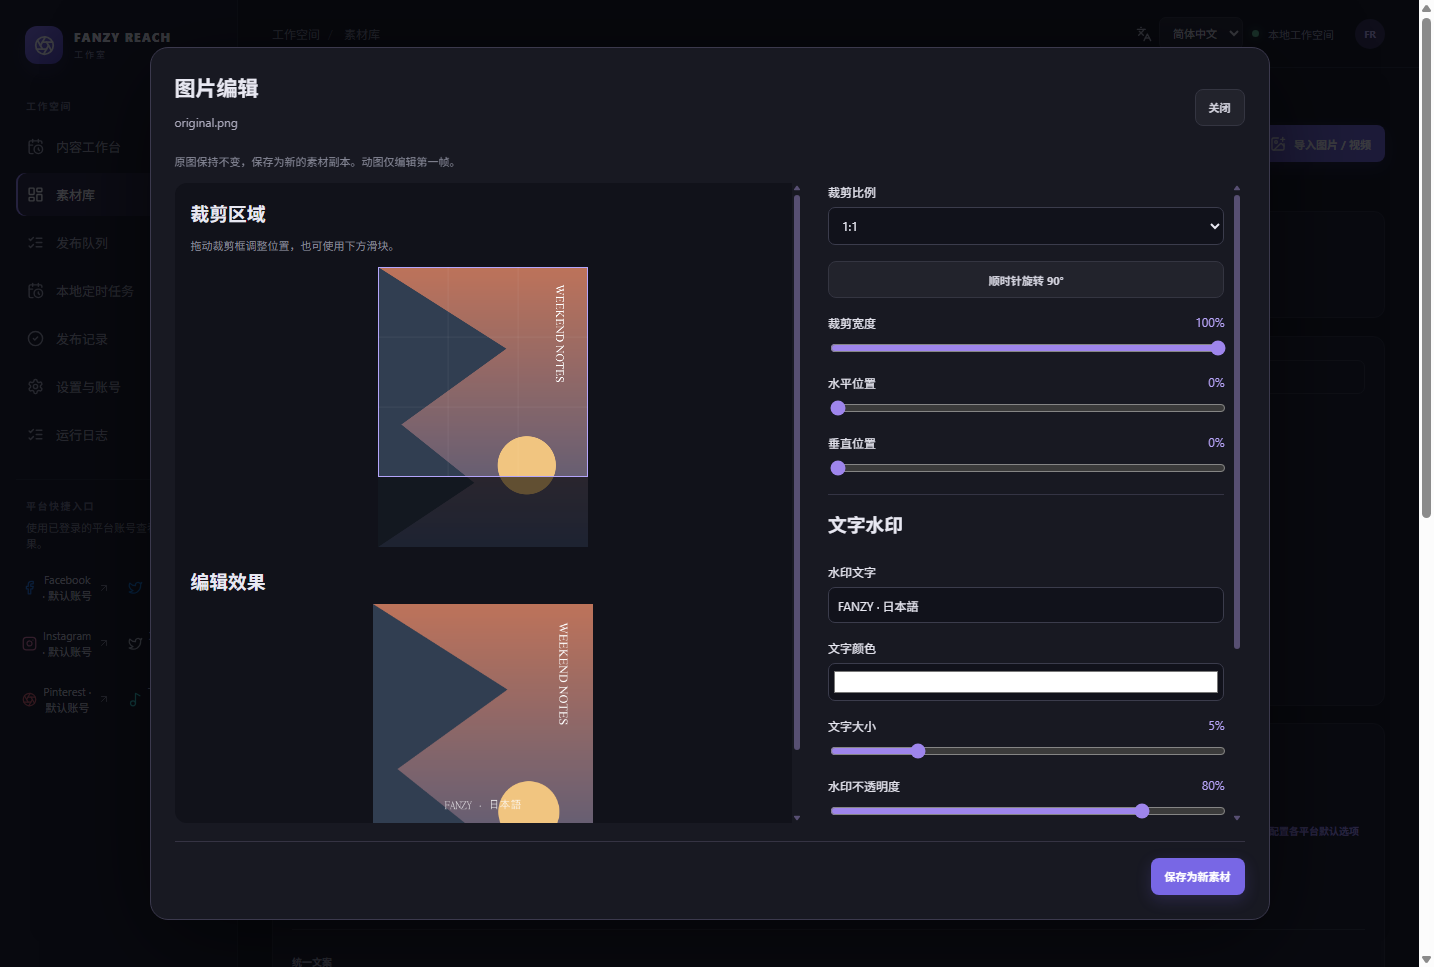
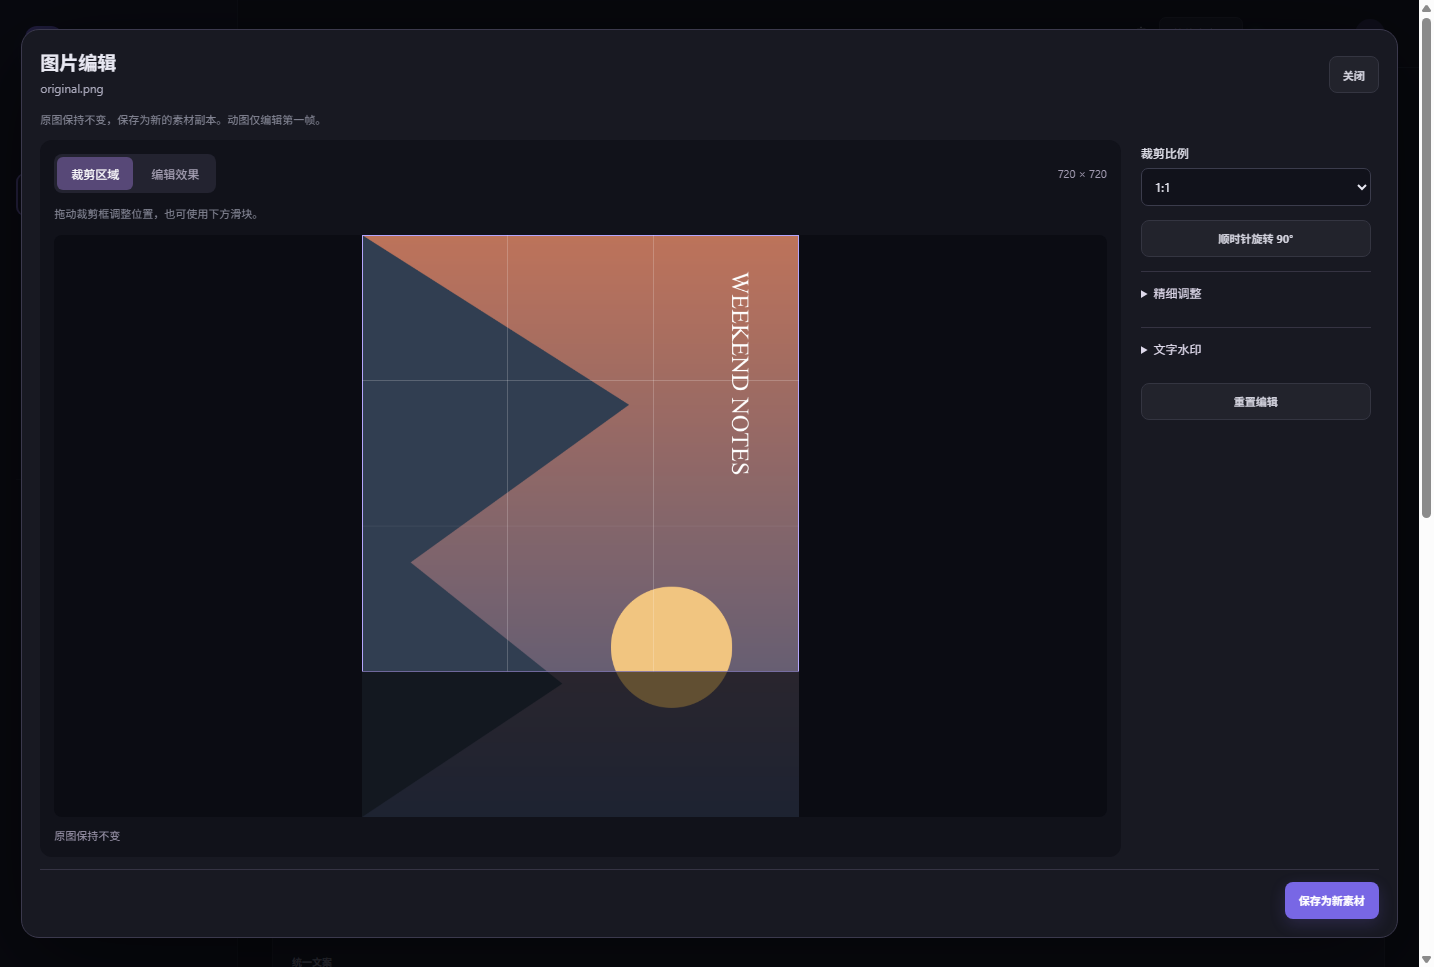
update 图片裁剪

diff --git a/src/renderer/src/ImageEditor.tsx b/src/renderer/src/ImageEditor.tsx
@@ -11,9 +11,12 @@ export default function ImageEditor({image,images,onClose,onSaved}:{image:ImageA
   const [options,setOptions]=useState<ImageEditOptions>(()=>source&&image.editOptions?structuredClone(image.editOptions):emptyImageEdit());
   const [base,setBase]=useState<ImagePreview>(), [result,setResult]=useState<ImagePreview>();
   const [error,setError]=useState(""),[saving,setSaving]=useState(false),[pending,setPending]=useState(true),[ratio,setRatio]=useState(0);
+  const [showResult,setShowResult]=useState(false),[viewportSize,setViewportSize]=useState({width:600,height:500});
+  const viewport=useRef<HTMLDivElement>(null);
   const canvas=useRef<HTMLCanvasElement>(null), bitmap=useRef<HTMLImageElement | undefined>(undefined), dragging=useRef<CropDrag|null>(null);
   const latest=useRef(options);latest.current=options;
   const dialog=useRef<HTMLDialogElement>(null);
+  useEffect(()=>{const node=viewport.current;if(!node)return;const observer=new ResizeObserver(([entry])=>setViewportSize({width:entry.contentRect.width,height:entry.contentRect.height}));observer.observe(node);return()=>observer.disconnect();},[]);
   useEffect(()=>{dialog.current?.showModal();return()=>dialog.current?.close();},[]);
   useEffect(()=>{let active=true;setBase(undefined);const value=emptyImageEdit();value.rotation=options.rotation;
     window.reach.previewImageEdit(sourceId,value).then(data=>{if(active)setBase(data);}).catch(e=>{if(active)setError(errorText(e));});return()=>{active=false;};
@@ -34,7 +37,7 @@ export default function ImageEditor({image,images,onClose,onSaved}:{image:ImageA
     ctx.strokeStyle="rgba(255,255,255,.4)";ctx.lineWidth=1;for(let i=1;i<3;i++){ctx.beginPath();ctx.moveTo(x+w*i/3,y);ctx.lineTo(x+w*i/3,y+h);ctx.moveTo(x,y+h*i/3);ctx.lineTo(x+w,y+h*i/3);ctx.stroke();}
   }
   useEffect(()=>{if(!base)return;let active=true;const img=new Image();img.onload=()=>{if(!active)return;bitmap.current=img;draw();};img.src=base.dataUrl;return()=>{active=false;};},[base]);
-  useEffect(()=>{draw();},[options,base,ratio]);
+  useEffect(()=>{draw();},[options,base,ratio,viewportSize,showResult]);
   function crop(width:number,height:number) {setOptions(o=>({...o,crop:{x:Math.min(o.crop.x,1-width),y:Math.min(o.crop.y,1-height),width,height}}));}
   function selectRatio(value:number) {setRatio(value);if(!base||!value)return;const relative=value/(base.width/base.height);crop(Math.min(1,relative),Math.min(1,1/relative));}
   function resize(width:number) {if(ratio&&base){const height=width*(base.width/base.height)/ratio;if(height>1){crop(ratio/(base.width/base.height),1);}else crop(width,height);}else crop(width,options.crop.height);}
@@ -43,25 +46,27 @@ export default function ImageEditor({image,images,onClose,onSaved}:{image:ImageA
   return <dialog ref={dialog} className="image-editor-dialog" onCancel={e=>{e.preventDefault();if(!saving)onClose();}} aria-labelledby="image-editor-heading"><div className="image-editor">
     <header><div><h2 id="image-editor-heading">{t("图片编辑")}</h2><p>{image.fileName}</p></div><button className="button secondary" disabled={saving} onClick={onClose}>{t("关闭")}</button></header>
     <p className="muted">{t("原图保持不变，保存为新的素材副本。动图仅编辑第一帧。")}</p>
-    <div className="image-editor-layout"><section className="edit-stage"><h3>{t("裁剪区域")}</h3><p className="muted">{ratio?t("拖动裁剪框调整位置，也可使用下方滑块。"):t("拖动整图或框外重新框选；拖动框内移动，拖动边角缩放。")}</p>
-      {base?<canvas ref={canvas} width={Math.round(Math.min(760,760*base.width/base.height))} height={Math.round(Math.min(760,760*base.height/base.width))} aria-label={t("拖动裁剪区域")} onPointerDown={e=>{if(saving||e.button!==0)return;e.preventDefault();const r=e.currentTarget.getBoundingClientRect(),x=(e.clientX-r.left)/r.width,y=(e.clientY-r.top)/r.height;
+    <div className="image-editor-layout"><section className="edit-stage"><div className="edit-stage-toolbar"><div className="edit-view-tabs"><button className={!showResult?"active":""} aria-pressed={!showResult} onClick={()=>setShowResult(false)}>{t("裁剪区域")}</button><button className={showResult?"active":""} aria-pressed={showResult} onClick={()=>setShowResult(true)}>{t("编辑效果")}</button></div><span>{result?`${result.width} × ${result.height}`:""}</span></div><p className="muted">{ratio?t("拖动裁剪框调整位置，也可使用下方滑块。"):t("拖动整图或框外重新框选；拖动框内移动，拖动边角缩放。")}</p>
+      <div className="crop-viewport" ref={viewport}>
+      {base?<canvas hidden={showResult} style={{width:Math.min(viewportSize.width,viewportSize.height*base.width/base.height),height:Math.min(viewportSize.height,viewportSize.width*base.height/base.width)}} ref={canvas} width={Math.round(Math.min(1600,1600*base.width/base.height))} height={Math.round(Math.min(1600,1600*base.height/base.width))} aria-label={t("拖动裁剪区域")} onPointerDown={e=>{if(saving||e.button!==0)return;e.preventDefault();const r=e.currentTarget.getBoundingClientRect(),x=(e.clientX-r.left)/r.width,y=(e.clientY-r.top)/r.height;
         dragging.current={mode:cropHit(options.crop,x,y,10/r.width,10/r.height,!ratio),x,y,crop:{...options.crop}};e.currentTarget.setPointerCapture(e.pointerId);
       }} onPointerMove={e=>{const r=e.currentTarget.getBoundingClientRect(),x=(e.clientX-r.left)/r.width,y=(e.clientY-r.top)/r.height;
         if(dragging.current){const crop=dragCrop(dragging.current,x,y);setOptions(o=>({...o,crop}));return;}
         const mode=cropHit(options.crop,x,y,10/r.width,10/r.height,!ratio);e.currentTarget.style.cursor=mode==="draw"?"crosshair":mode==="move"?"grab":`${mode}-resize`;
       }} onPointerUp={e=>{dragging.current=null;if(e.currentTarget.hasPointerCapture(e.pointerId))e.currentTarget.releasePointerCapture(e.pointerId);}} onPointerCancel={()=>{dragging.current=null;}} onLostPointerCapture={()=>{dragging.current=null;}}/>:<p>{t("正在生成预览…")}</p>}
-      <h3>{t("编辑效果")}</h3>{result&&<img className={pending?"preview-pending":""} src={result.dataUrl} alt={t("编辑效果")}/>}<p role="status">{pending?t("正在生成预览…"):result?`${result.width} × ${result.height}`:""}</p>
+      {result&&<img hidden={!showResult} className={pending?"preview-pending":""} src={result.dataUrl} alt={t("编辑效果")}/>}</div><p className="edit-preview-status" role="status">{pending?t("正在生成预览…"):t("原图保持不变")}</p>
     </section><fieldset disabled={saving||!base} className="edit-controls"><label>{t("裁剪比例")}<select value={ratio} onChange={e=>selectRatio(Number(e.target.value))}><option value={0}>{t("自由裁剪")}</option><option value={1}>1:1</option><option value={.8}>4:5</option><option value={9/16}>9:16</option><option value={16/9}>16:9</option></select></label>
     <button className="button secondary" onClick={()=>{setRatio(0);setOptions(o=>({...o,rotation:((o.rotation+90)%360) as ImageEditOptions["rotation"],crop:emptyImageEdit().crop}));}}>{t("顺时针旋转 90°")}</button>
+    <details className="edit-section"><summary>{t("精细调整")}</summary><div>
     {range("裁剪宽度",options.crop.width,.01,1,resize)}{!ratio&&range("裁剪高度",options.crop.height,.01,1,h=>crop(options.crop.width,h))}
     {range("水平位置",options.crop.x,0,1-options.crop.width,x=>setOptions(o=>({...o,crop:{...o.crop,x}})))}
     {range("垂直位置",options.crop.y,0,1-options.crop.height,y=>setOptions(o=>({...o,crop:{...o.crop,y}})))}
-    <h3>{t("文字水印")}</h3><label>{t("水印文字")}<input maxLength={100} value={options.watermark.text} onChange={e=>watermark({text:e.target.value})} placeholder={t("留空不添加水印")}/></label>
+    </div></details><details className="edit-section"><summary>{t("文字水印")}</summary><div><label>{t("水印文字")}<input maxLength={100} value={options.watermark.text} onChange={e=>watermark({text:e.target.value})} placeholder={t("留空不添加水印")}/></label>
     <label>{t("文字颜色")}<input type="color" value={options.watermark.color} onChange={e=>watermark({color:e.target.value})}/></label>
     {range("文字大小",options.watermark.size,.01,.2,size=>watermark({size}))}{range("水印不透明度",options.watermark.opacity,0,1,opacity=>watermark({opacity}))}
     {range("水印水平位置",options.watermark.x,0,1,x=>watermark({x}))}{range("水印垂直位置",options.watermark.y,0,1,y=>watermark({y}))}
+    <p className="muted">{t("请检查水印是否超出边缘，预览显示最终裁剪效果。")}</p></div></details>
     <button className="button secondary" onClick={()=>{setOptions(emptyImageEdit());setRatio(0);}}>{t("重置编辑")}</button>
-    <p className="muted">{t("请检查水印是否超出边缘，预览显示最终裁剪效果。")}</p>
     </fieldset></div><p role="alert" className="edit-error">{t(error)}</p><footer><button className="button primary" disabled={saving||pending||!result||!!error} onClick={async()=>{setSaving(true);setError("");try{const saved=await window.reach.saveImageEdit(sourceId,options);await onSaved(saved);}catch(e){setError(errorText(e));}finally{setSaving(false);}}}>{saving?t("正在保存副本…"):t("保存为新素材")}</button></footer>
   </div></dialog>;
 }

diff --git a/src/renderer/src/style.css b/src/renderer/src/style.css
@@ -274,3 +274,8 @@ button { cursor: pointer; }
 @media(max-width:850px){.image-editor-layout{grid-template-columns:1fr}.image-editor{padding:16px}.image-editor header{align-items:flex-start}.edit-stage canvas{max-height:340px}.image-editor-dialog{width:96vw}.publish-preview{padding:12px}}
 
 .image-editor-dialog{scrollbar-width:thin;scrollbar-color:#574e73 #181922}.edit-stage canvas{width:auto;max-height:280px}.edit-stage>img{max-height:220px}.edit-controls,.edit-stage{max-height:calc(92vh - 250px);overflow:auto;scrollbar-width:thin;scrollbar-color:#574e73 #181922}.edit-controls{padding-right:8px}.image-editor footer{border-top:1px solid #353343;padding-top:16px}.image-editor header h2{font-size:21px}@media(max-width:850px){.edit-controls,.edit-stage{max-height:none;overflow:visible}.edit-stage canvas{max-height:240px}}
+
+/* Keep the image dominant; controls scroll within a narrow inspector. */
+.image-editor-dialog{width:min(1600px,96vw);height:94vh;max-height:94vh;overflow:hidden}.image-editor{height:100%;display:flex;flex-direction:column;padding:18px;box-sizing:border-box}.image-editor header{flex-shrink:0}.image-editor header h2{font-size:19px;margin:0}.image-editor header p{margin:5px 0}.image-editor>.muted{margin:10px 0;font-size:11px}.image-editor-layout{flex:1;min-height:0;grid-template-columns:minmax(0,1fr) 240px;gap:18px}.edit-stage{display:flex;flex-direction:column;overflow:hidden;max-height:none;min-height:0;padding:14px}.edit-stage-toolbar{display:flex;justify-content:space-between;align-items:center;gap:12px;flex-shrink:0}.edit-stage-toolbar>span{color:#a19ab1;font-size:11px}.edit-view-tabs{display:flex;gap:4px;padding:3px;background:#232330;border-radius:8px}.edit-view-tabs button{border:0;padding:8px 14px;background:transparent;color:#aaa4b9;border-radius:6px;font-size:12px;cursor:pointer}.edit-view-tabs button.active{background:#584778;color:#fff}.edit-stage>.muted{font-size:11px;margin:12px 0;flex-shrink:0}.crop-viewport{position:relative;flex:1;min-height:0;min-width:0;display:grid;place-items:center;overflow:hidden;container-type:size;background:#0b0c13;border-radius:8px}.edit-stage .crop-viewport canvas{display:block;max-height:none;max-width:none;margin:0;flex:none}.edit-stage .crop-viewport img{max-width:100cqw;max-height:100cqh;object-fit:contain;display:block}.edit-stage [hidden]{display:none!important}.edit-preview-status{height:16px;flex-shrink:0;margin:10px 0 0;font-size:11px;color:#9791a8}.edit-controls{max-height:none;min-height:0;overflow-y:auto;padding:4px 6px 4px 0;gap:14px}.edit-section{border-top:1px solid #353342;padding:12px 0}.edit-section summary{font-size:12px;color:#ded9ec;cursor:pointer}.edit-section>div{display:flex;flex-direction:column;gap:15px;padding-top:16px}.image-editor footer{flex-shrink:0;margin-top:12px;padding-top:12px}.image-editor>.edit-error:empty{display:none}.image-editor>.edit-error{margin:8px 0 0;font-size:12px}.image-editor .edit-range{font-size:11px}.image-editor .edit-range output{position:static;align-self:flex-end;margin-top:-3px}
+@media(max-width:1150px){.image-editor-layout{grid-template-columns:minmax(0,1fr) 210px;gap:12px}.image-editor{padding:14px}}
+@media(max-width:850px){.image-editor-layout{grid-template-columns:minmax(0,1fr) 180px;gap:10px}.edit-controls{overflow:auto;max-height:none}.edit-stage{overflow:hidden;max-height:none}.edit-stage-toolbar{align-items:flex-start;flex-wrap:wrap}.edit-view-tabs button{padding:7px 10px}}
